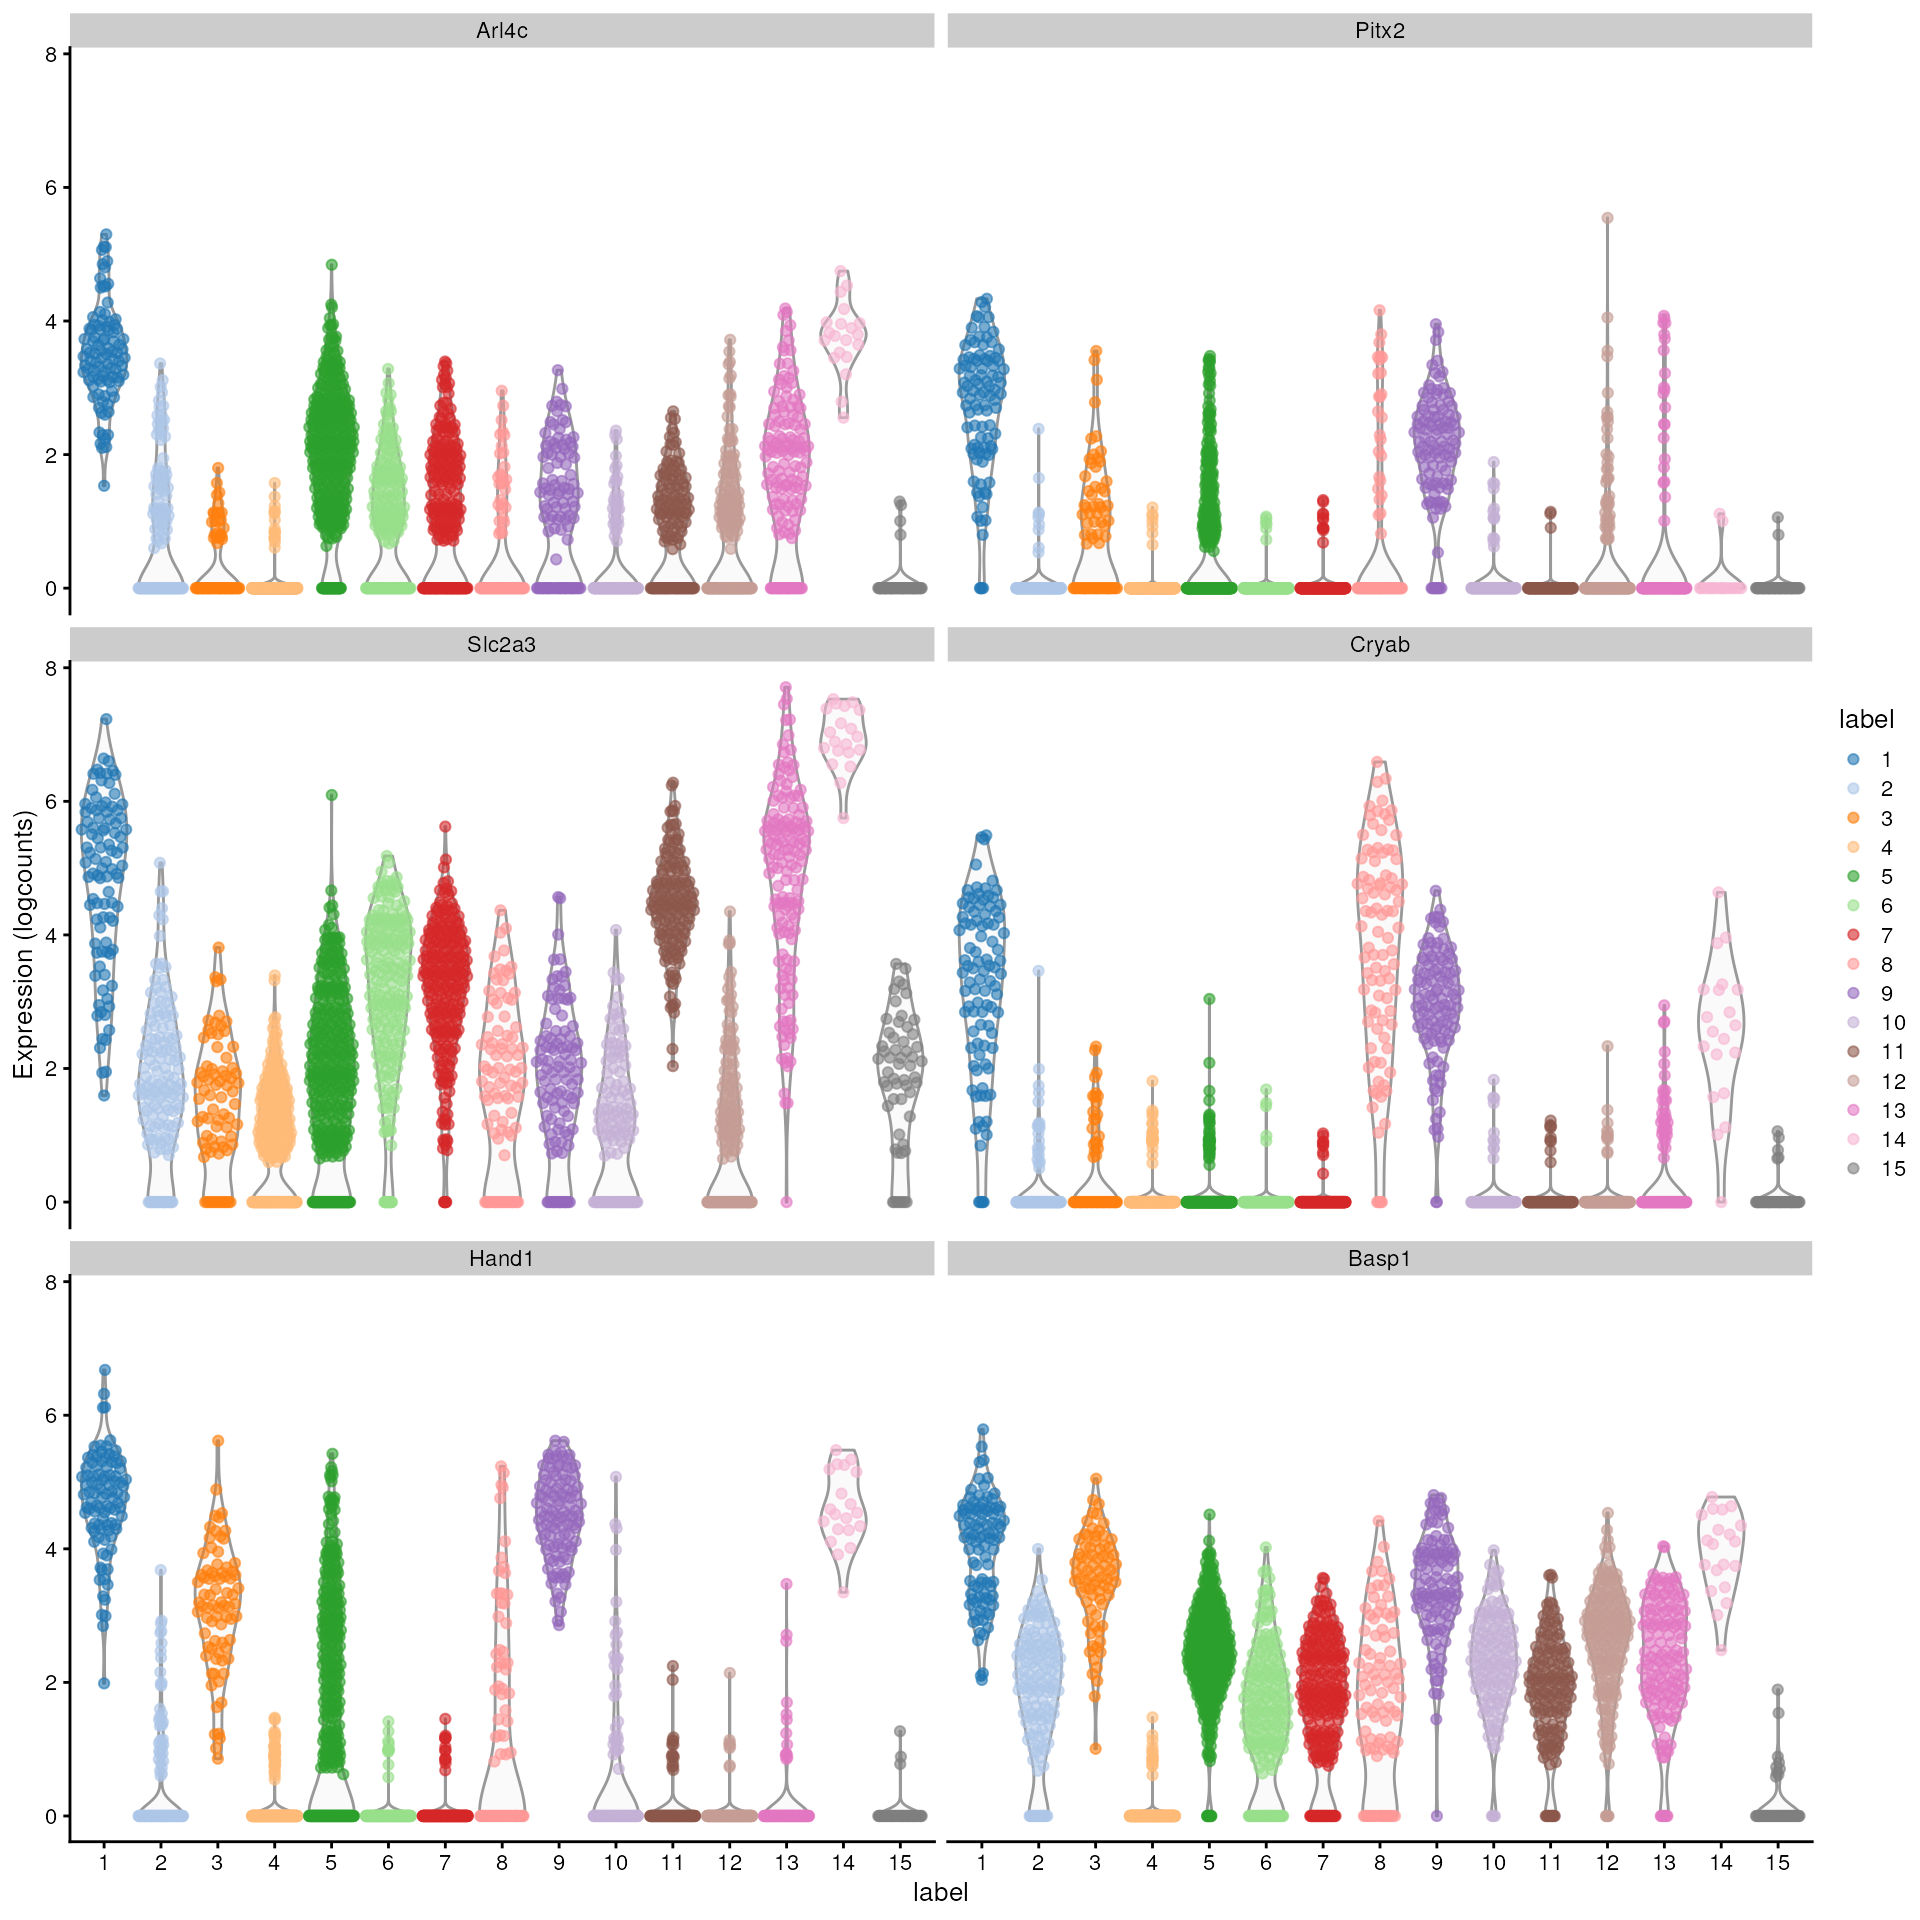
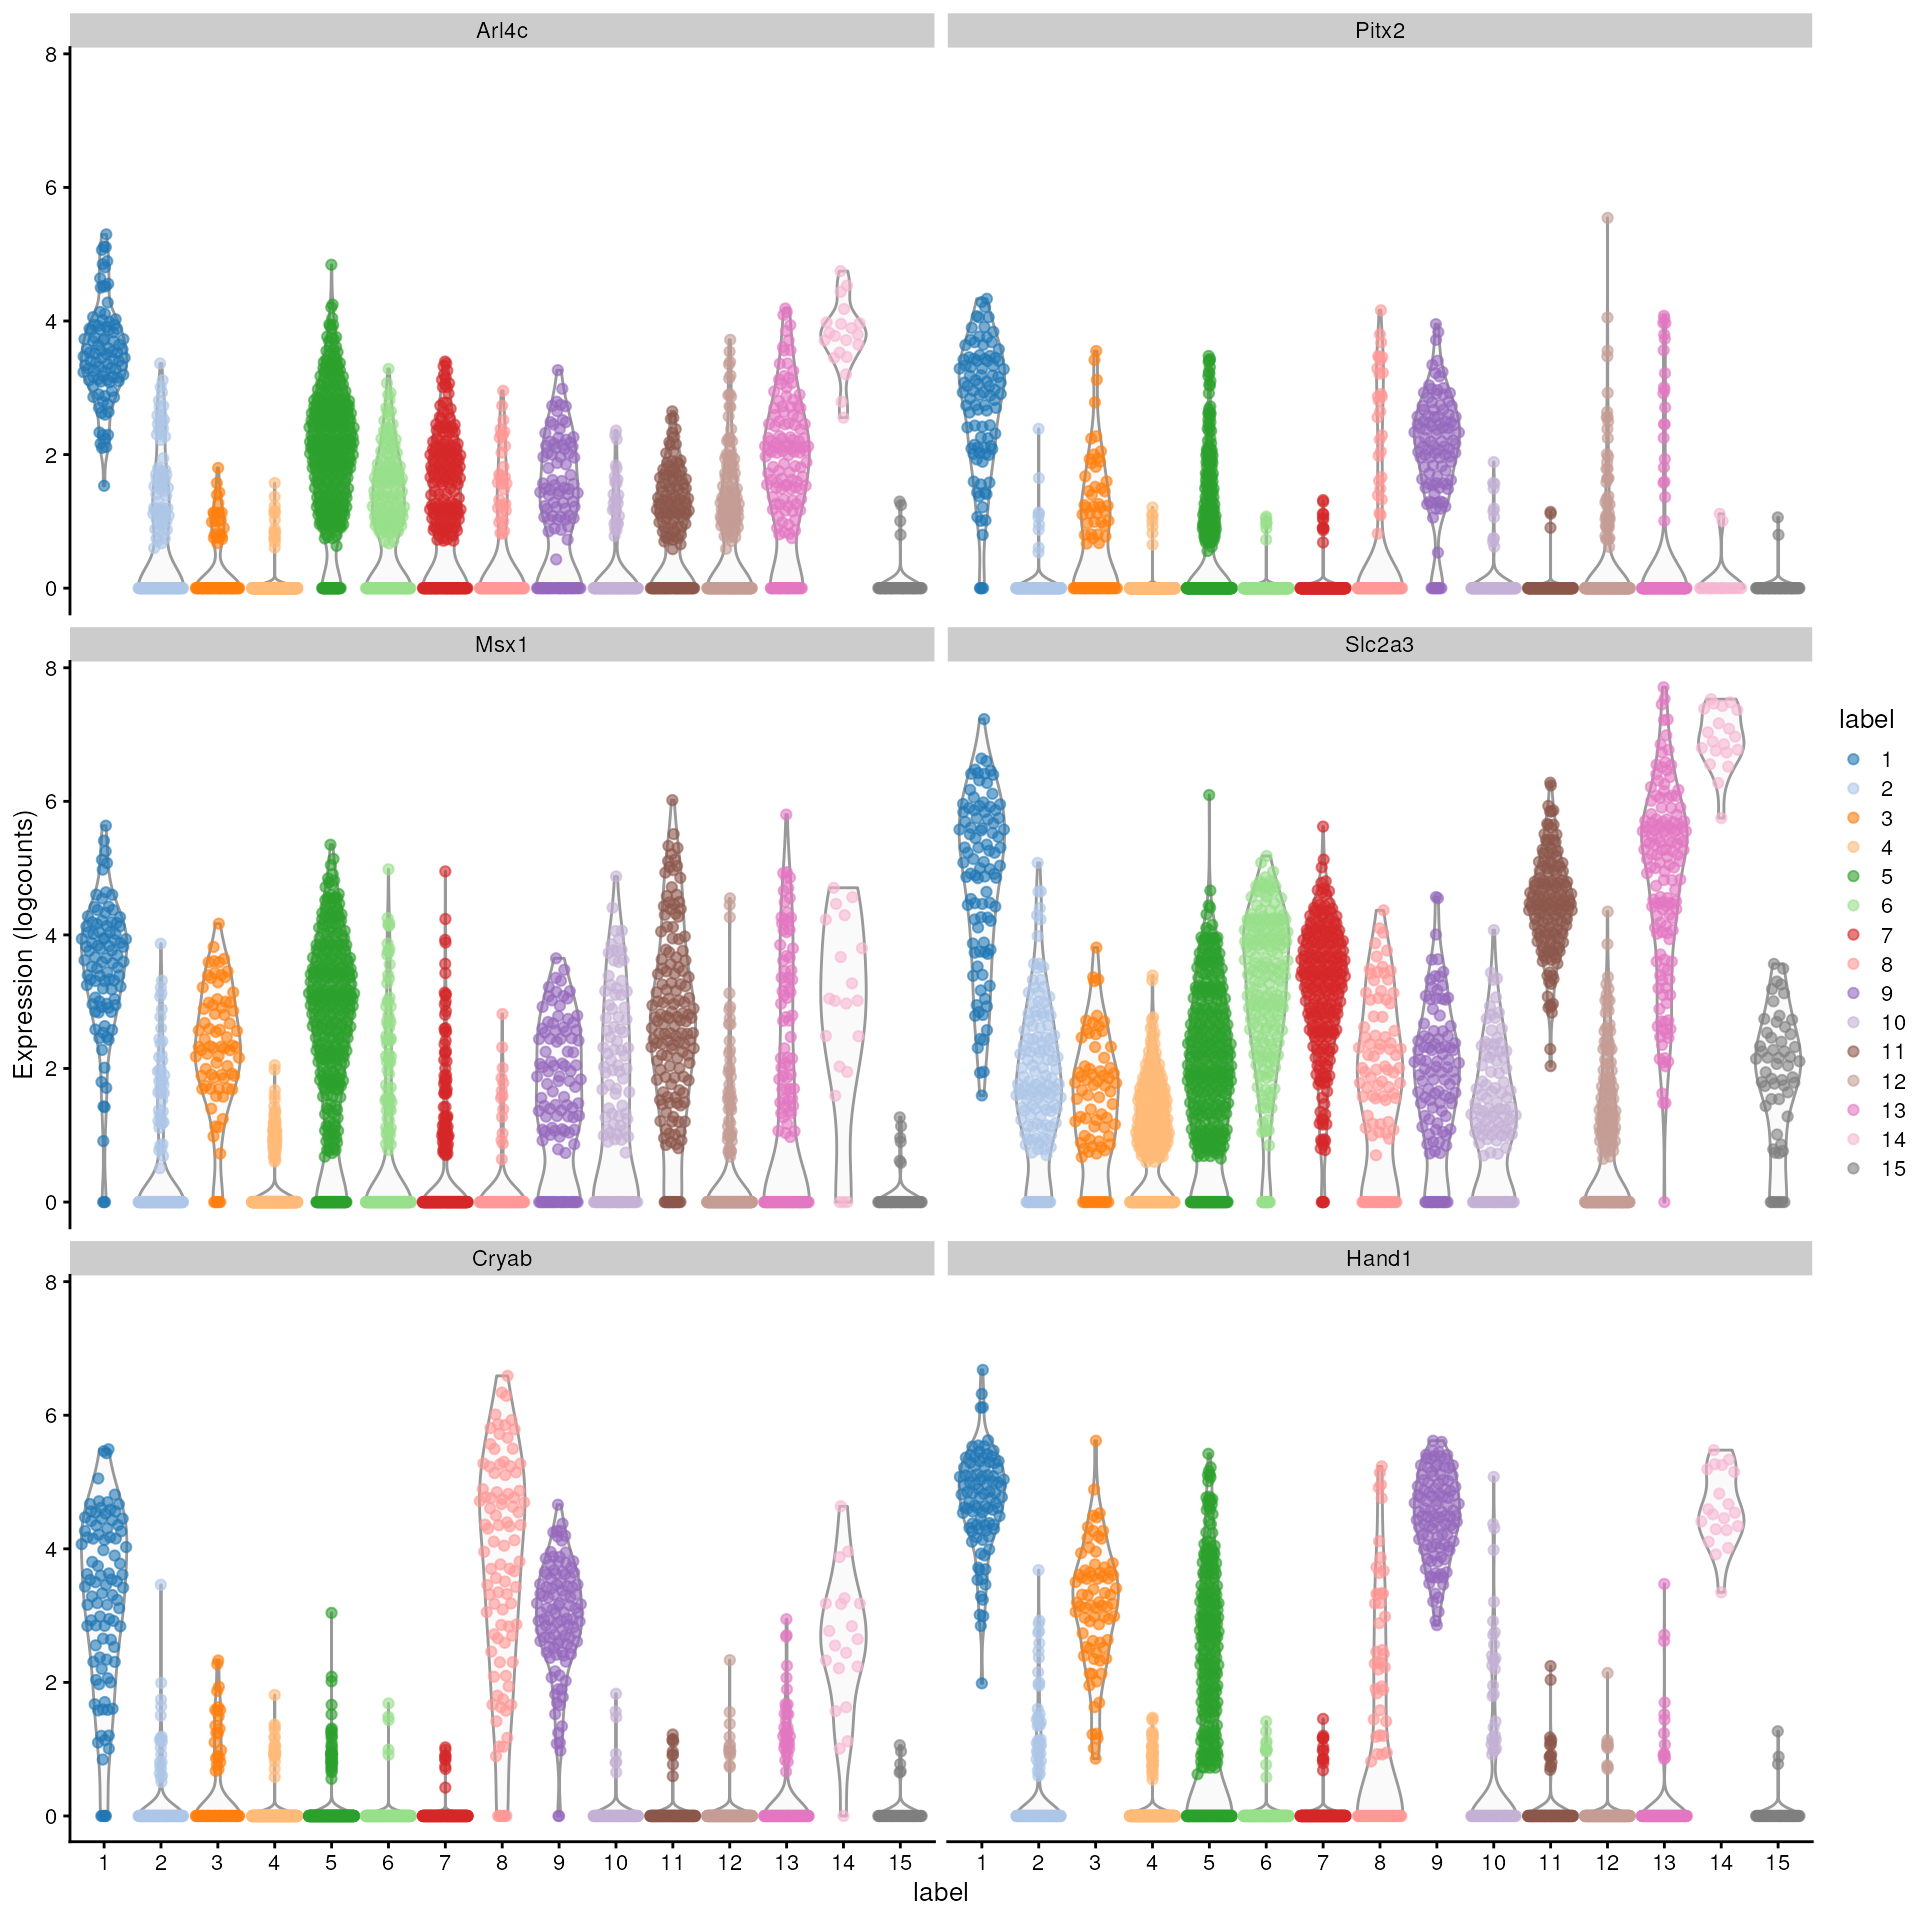
Deploying to gh-pages from @ Bioconductor/ISMB.OSCA@6b9f04530cf50a3b7cabd7c84178d42541faeeaf 🚀

diff --git a/articles/cell_type_annotation.html b/articles/cell_type_annotation.html
@@ -169,7 +169,7 @@ cell in our <code>SingleCellExperiment</code> object.</p>
 <span><span class="fu"><a href="https://rdrr.io/r/base/table.html" class="external-link">table</a></span><span class="op">(</span><span class="fu"><a href="https://rdrr.io/pkg/SingleCellExperiment/man/colLabels.html" class="external-link">colLabels</a></span><span class="op">(</span><span class="va">sce</span><span class="op">)</span><span class="op">)</span></span></code></pre></div>
 <pre><code><span><span class="co">## </span></span>
 <span><span class="co">##   1   2   3   4   5   6   7   8   9  10  11  12  13  14  15 </span></span>
-<span><span class="co">##  95 144  77 341 391 210 246  92 108 129 153 203 146  20  56</span></span></code></pre>
+<span><span class="co">##  95 144  77 341 392 209 246  95 108 113 154 215 146  20  56</span></span></code></pre>
 <p>We assign the cluster assignments back into our
 <code>SingleCellExperiment</code> object as a <code>factor</code> in the
 column metadata. This allows us to conveniently visualize the
@@ -226,9 +226,9 @@ cluster.</p>
 <span><span class="co">##            &lt;integer&gt;   &lt;numeric&gt;   &lt;numeric&gt;   &lt;numeric&gt; &lt;numeric&gt; &lt;numeric&gt;</span></span>
 <span><span class="co">## Arl4c              1 2.65826e-83 3.91468e-79    0.998796  0.905482  0.990157</span></span>
 <span><span class="co">## Pitx2              1 2.12479e-70 6.25814e-67    0.943973  0.932968  0.764320</span></span>
+<span><span class="co">## Msx1               1 3.82512e-55 2.08632e-52    0.948727  0.887573  0.572112</span></span>
 <span><span class="co">## Slc2a3             1 4.05884e-43 1.10690e-40    0.961506  0.872515  0.918113</span></span>
-<span><span class="co">## Cryab              1 1.11310e-60 8.62742e-58    0.923866  0.911915  0.880519</span></span>
-<span><span class="co">## Hand1              1 4.24304e-76 1.56213e-72    0.999568  0.989766  0.699658</span></span>
+<span><span class="co">## Cryab              1 1.19792e-60 9.28481e-58    0.923335  0.911915  0.880519</span></span>
 <span><span class="co">## ...              ...         ...         ...         ...       ...       ...</span></span>
 <span><span class="co">## AC125149.2     29448           1           1           0         0         0</span></span>
 <span><span class="co">## AC125149.4     29449           1           1           0         0         0</span></span>
@@ -237,11 +237,11 @@ cluster.</p>
 <span><span class="co">## Vmn2r122       29453           1           1           0         0         0</span></span>
 <span><span class="co">##                AUC.4     AUC.5     AUC.6     AUC.7     AUC.8     AUC.9</span></span>
 <span><span class="co">##            &lt;numeric&gt; &lt;numeric&gt; &lt;numeric&gt; &lt;numeric&gt; &lt;numeric&gt; &lt;numeric&gt;</span></span>
-<span><span class="co">## Arl4c       0.998796  0.663158  0.907068  0.858451  0.944050  0.863840</span></span>
-<span><span class="co">## Pitx2       0.943973  0.794346  0.943208  0.939538  0.763387  0.406725</span></span>
-<span><span class="co">## Slc2a3      0.961506  0.862781  0.672632  0.680359  0.871739  0.874659</span></span>
-<span><span class="co">## Cryab       0.928261  0.923866  0.932481  0.932777  0.228833  0.334600</span></span>
-<span><span class="co">## Hand1       0.999568  0.868704  0.999599  0.999743  0.894165  0.209649</span></span>
+<span><span class="co">## Arl4c       0.998796  0.663561  0.906673  0.858451  0.939391  0.863840</span></span>
+<span><span class="co">## Pitx2       0.943973  0.798926  0.943188  0.939538  0.750360  0.406725</span></span>
+<span><span class="co">## Msx1        0.948727  0.494280  0.836364  0.887634  0.936510  0.741618</span></span>
+<span><span class="co">## Slc2a3      0.961506  0.861654  0.672929  0.680359  0.867922  0.874659</span></span>
+<span><span class="co">## Cryab       0.928261  0.923335  0.932460  0.932777  0.252078  0.334600</span></span>
 <span><span class="co">## ...              ...       ...       ...       ...       ...       ...</span></span>
 <span><span class="co">## AC125149.2         0         0         0         0         0         0</span></span>
 <span><span class="co">## AC125149.4         0         0         0         0         0         0</span></span>
@@ -250,11 +250,11 @@ cluster.</p>
 <span><span class="co">## Vmn2r122           0         0         0         0         0         0</span></span>
 <span><span class="co">##               AUC.10    AUC.11    AUC.12    AUC.13      AUC.14    AUC.15</span></span>
 <span><span class="co">##            &lt;numeric&gt; &lt;numeric&gt; &lt;numeric&gt; &lt;numeric&gt;   &lt;numeric&gt; &lt;numeric&gt;</span></span>
-<span><span class="co">## Arl4c       0.978458  0.938424  0.914752  0.727181 0.092631579  0.997368</span></span>
-<span><span class="co">## Pitx2       0.925255  0.943584  0.865388  0.844484 0.928947368  0.942105</span></span>
-<span><span class="co">## Slc2a3      0.937169  0.368903  0.945968  0.287671 0.000526316  0.877820</span></span>
-<span><span class="co">## Cryab       0.924276  0.929068  0.927975  0.887383 0.441052632  0.926692</span></span>
-<span><span class="co">## Hand1       0.965973  0.999037  0.999533  0.996035 0.150000000  0.999812</span></span>
+<span><span class="co">## Arl4c       0.978202  0.938756  0.921714  0.727181 0.092631579  0.997368</span></span>
+<span><span class="co">## Pitx2       0.925291  0.943609  0.868984  0.844484 0.928947368  0.942105</span></span>
+<span><span class="co">## Msx1        0.704238  0.495694  0.910502  0.704831 0.395789474  0.953759</span></span>
+<span><span class="co">## Slc2a3      0.930601  0.370472  0.953929  0.287671 0.000526316  0.877820</span></span>
+<span><span class="co">## Cryab       0.926782  0.929118  0.926854  0.887383 0.441052632  0.926692</span></span>
 <span><span class="co">## ...              ...       ...       ...       ...         ...       ...</span></span>
 <span><span class="co">## AC125149.2         0         0         0         0           0         0</span></span>
 <span><span class="co">## AC125149.4         0         0         0         0           0         0</span></span>
